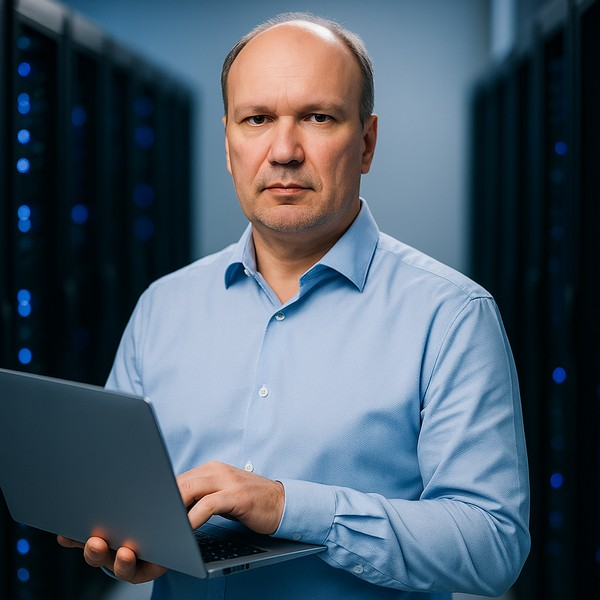
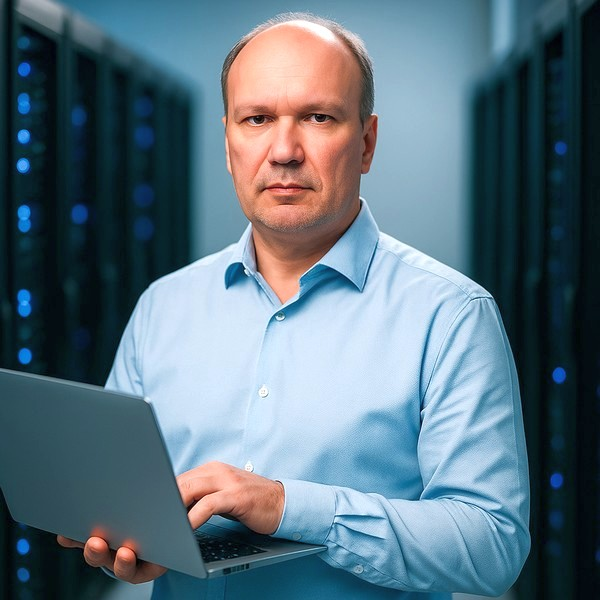
updated disign

diff --git a/index.html b/index.html
@@ -186,13 +186,13 @@
             </div>
             <div class="stat-card spacex-card">
                 <div class="stat-number" data-count="3">0</div>
-                <div class="stat-label">Языка скриптинга</div>
-                <p>Python, Bash и автоматизация административных рутин.</p>
+                <div class="stat-label">Инструмента автоматизации</div>
+                <p>Python, Bash и LangGraph для автоматизации административных рутин.</p>
             </div>
             <div class="stat-card spacex-card">
                 <div class="stat-number" data-count="100">0</div>
-                <div class="stat-label">Фокус на надежность</div>
-                <p>Стабильность, регламенты и предсказуемая поддержка систем.</p>
+                <div class="stat-label">Фокус на стабильность</div>
+                <p>Регламенты, предсказуемая поддержка и надежная работа систем.</p>
             </div>
         </section>
 
@@ -293,26 +293,26 @@
                     <h2 class="section-title"><i class="fas fa-laptop-code"></i> Компетенции</h2>
                     <div class="skill-group">
                         <h4><i class="fas fa-server"></i> ОС & Сети</h4>
-                        <div class="tech-stack">
-                            <span>Linux (Debian, Ubuntu)</span><span>Alt Linux</span><span>Windows Server (AD, GPO)</span><span>СКС/ЛВС</span><span>Kerio Control</span>
+                        <div class="tech-stack skill-tags">
+                            <span><i class="fab fa-linux" aria-hidden="true"></i> Linux (Debian, Ubuntu)</span><span><i class="fas fa-terminal" aria-hidden="true"></i> Alt Linux</span><span><i class="fab fa-windows" aria-hidden="true"></i> Windows Server (AD, GPO)</span><span><i class="fas fa-network-wired" aria-hidden="true"></i> СКС/ЛВС</span><span><i class="fas fa-router" aria-hidden="true"></i> Kerio Control</span>
                         </div>
                     </div>
                     <div class="skill-group">
                         <h4><i class="fas fa-shield-alt"></i> Безопасность</h4>
-                        <div class="tech-stack">
-                            <span>152-ФЗ</span><span>VipNet</span><span>CryptoPro</span><span>ruToken</span>
+                        <div class="tech-stack skill-tags">
+                            <span><i class="fas fa-scale-balanced" aria-hidden="true"></i> 152-ФЗ</span><span><i class="fas fa-shield-halved" aria-hidden="true"></i> VipNet</span><span><i class="fas fa-key" aria-hidden="true"></i> CryptoPro</span><span><i class="fas fa-usb" aria-hidden="true"></i> ruToken</span>
                         </div>
                     </div>
                     <div class="skill-group">
                         <h4><i class="fas fa-cloud"></i> Виртуализация & БД</h4>
-                        <div class="tech-stack">
-                            <span>Hyper-V</span><span>VMware</span><span>PostgreSQL</span>
+                        <div class="tech-stack skill-tags">
+                            <span><i class="fas fa-cubes" aria-hidden="true"></i> Hyper-V</span><span><i class="fas fa-cubes" aria-hidden="true"></i> VMware</span><span><i class="fas fa-database" aria-hidden="true"></i> PostgreSQL</span>
                         </div>
                     </div>
                     <div class="skill-group">
                         <h4><i class="fas fa-code"></i> Автоматизация</h4>
-                        <div class="tech-stack">
-                            <span>Python</span><span>Bash</span><span>LangGraph</span>
+                        <div class="tech-stack skill-tags">
+                            <span><i class="fab fa-python" aria-hidden="true"></i> Python</span><span><i class="fas fa-terminal" aria-hidden="true"></i> Bash</span><span><i class="fas fa-diagram-project" aria-hidden="true"></i> LangGraph</span>
                         </div>
                     </div>
                 </section>
@@ -366,7 +366,8 @@
     <button id="chat-toggle" class="action-fab chat-fab" title="AI Ассистент">
         <i class="fas fa-comment-dots"></i>
     </button>
-    
+
+    <div id="chat-backdrop" aria-hidden="true"></div>
     <div id="chat-widget" class="spacex-card">
         <div id="chat-header">
             <div class="chat-title"><i class="fas fa-robot"></i> AI Ассистент</div>

diff --git a/chat-widget.css b/chat-widget.css
@@ -2,6 +2,23 @@
    MK CHAT WIDGET STYLES (Light & Dark High Contrast)
    ========================================================================== */
 
+#chat-backdrop {
+    position: fixed;
+    inset: 0;
+    z-index: 2000;
+    background: rgba(7, 8, 12, 0.35);
+    backdrop-filter: blur(8px);
+    -webkit-backdrop-filter: blur(8px);
+    opacity: 0;
+    pointer-events: none;
+    transition: opacity 0.3s ease;
+}
+
+#chat-backdrop.active {
+    opacity: 1;
+    pointer-events: auto;
+}
+
 #chat-widget {
     position: fixed;
     bottom: 95px;

diff --git a/styles.css b/styles.css
@@ -983,6 +983,22 @@ body.spacex-body {
     color: #334155;
 }
 
+.skill-tags span {
+    display: inline-flex;
+    align-items: center;
+    gap: 6px;
+}
+
+.skill-tags span i {
+    color: var(--text-dim);
+    font-size: 0.72rem;
+    opacity: 0.9;
+}
+
+.light-theme .skill-tags span i {
+    color: #64748b;
+}
+
 /* КОМПЕТЕНЦИИ & НАВЫКИ */
 .skill-group {
     margin-bottom: 22px;

diff --git a/chat-widget.js b/chat-widget.js
@@ -1,17 +1,25 @@
 document.addEventListener('DOMContentLoaded', () => {
     const toggleBtn = document.getElementById('chat-toggle');
     const widget = document.getElementById('chat-widget');
+    const backdrop = document.getElementById('chat-backdrop');
     const closeBtn = document.getElementById('chat-close');
     const sendBtn = document.getElementById('chat-send');
     const input = document.getElementById('chat-input');
     const msgs = document.getElementById('chat-messages');
   
     // Открытие/закрытие
+    function closeChat() {
+        widget.classList.remove('active');
+        backdrop.classList.remove('active');
+    }
+
     toggleBtn.addEventListener('click', () => {
         widget.classList.add('active');
+        backdrop.classList.add('active');
         input.focus();
     });
-    closeBtn.addEventListener('click', () => widget.classList.remove('active'));
+    closeBtn.addEventListener('click', closeChat);
+    backdrop.addEventListener('click', closeChat);
 
     // Добавляем статус-индикатор в заголовок
     const header = document.getElementById('chat-header');